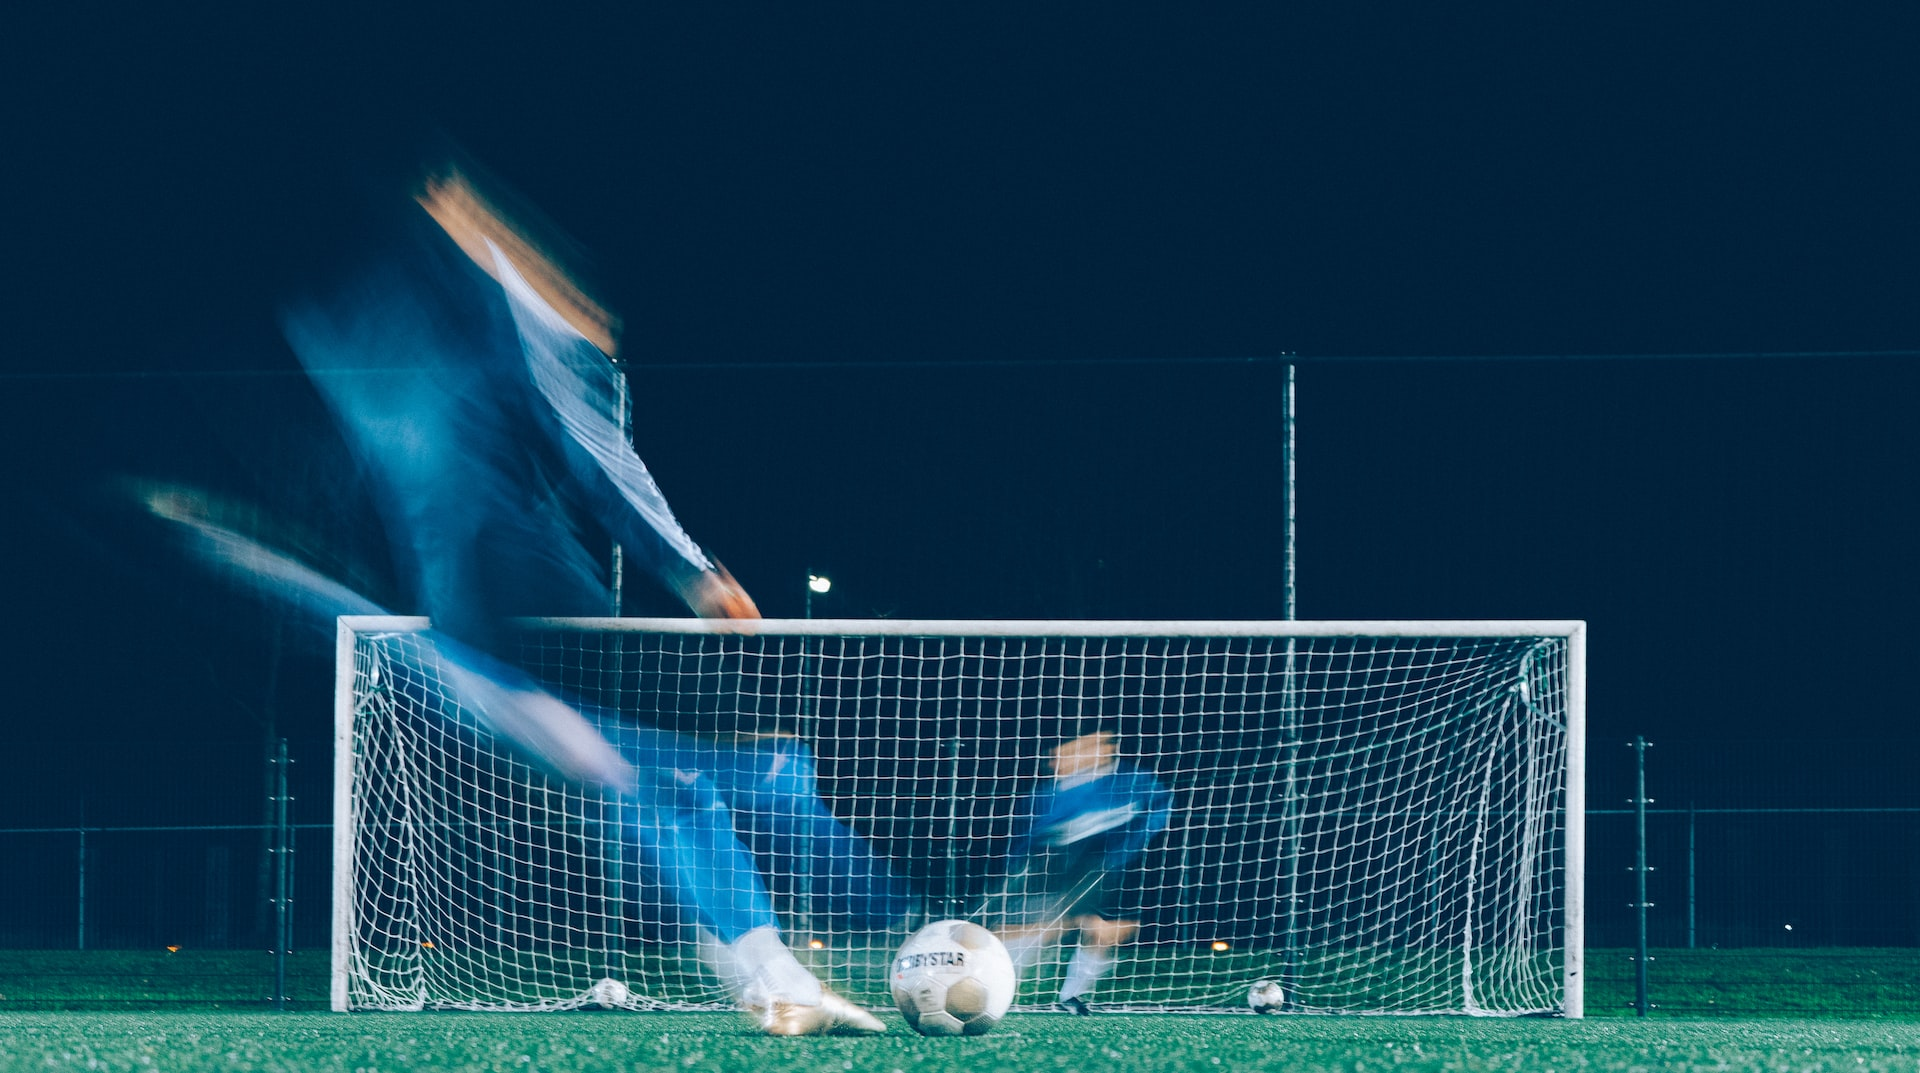
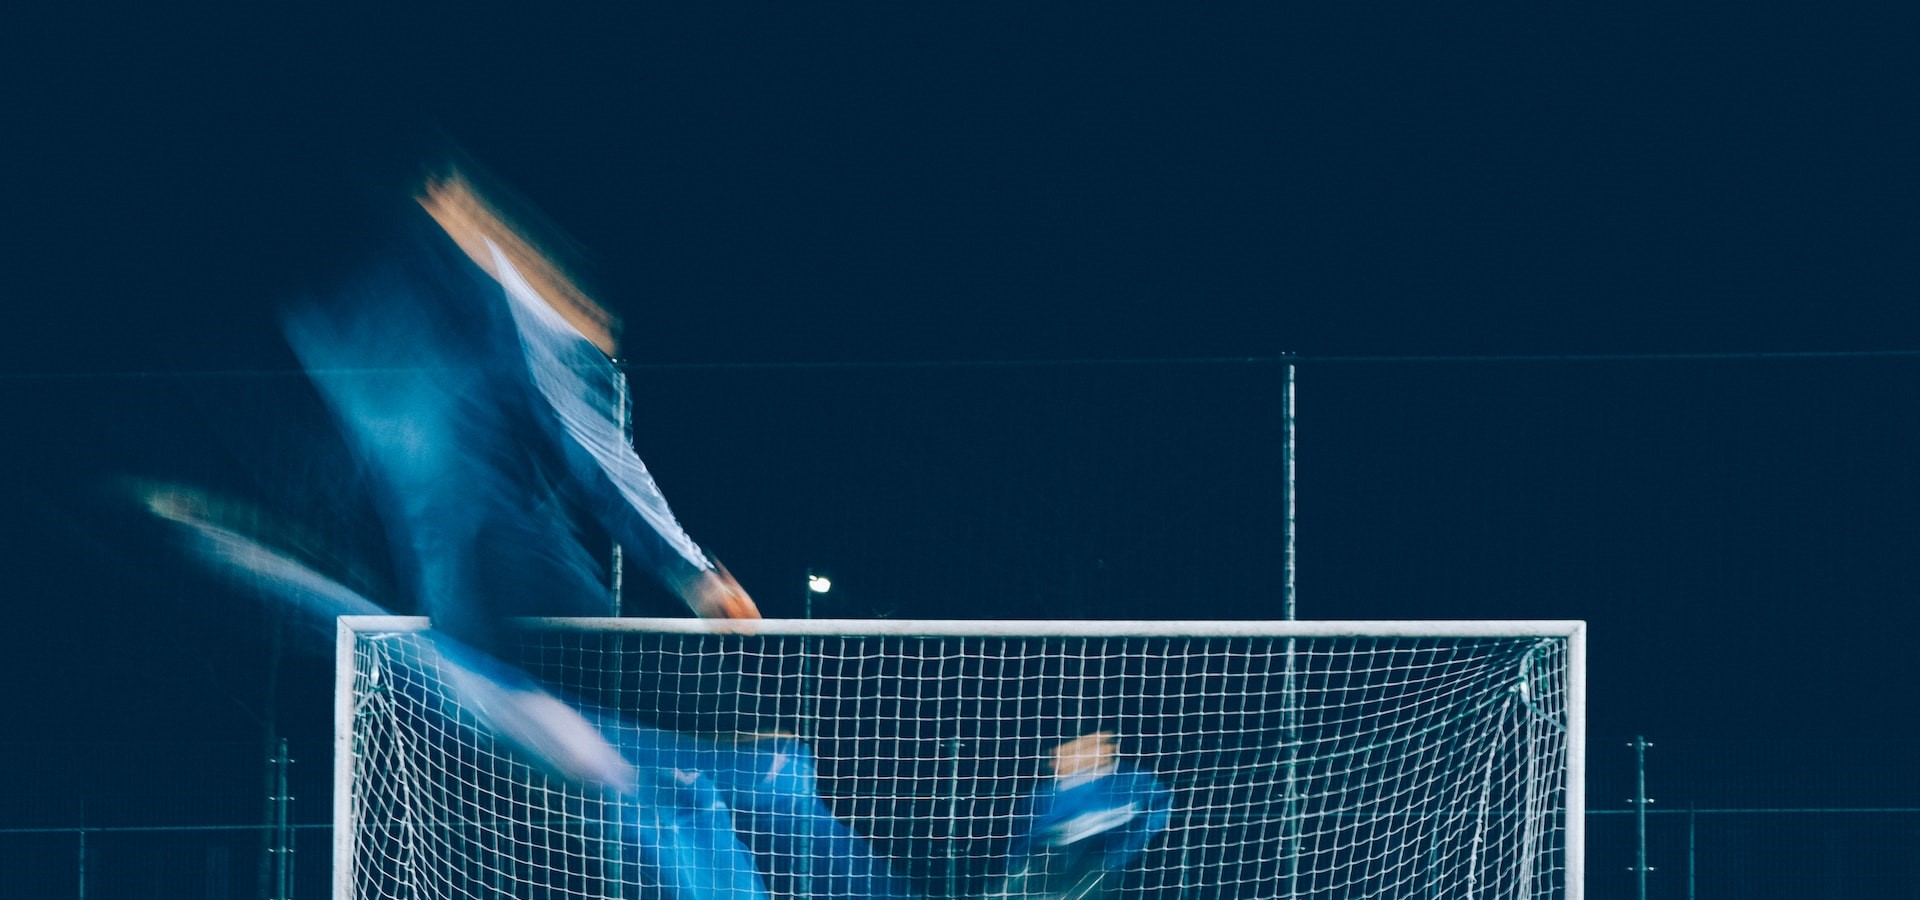
update

diff --git a/index.html b/index.html
@@ -4,7 +4,7 @@
     <meta charset="UTF-8">
     <meta http-equiv="X-UA-Compatible" content="IE=edge">
     <meta name="viewport" content="width=device-width, initial-scale=1.0">
-    <title>Jersy World BD</title>
+    <title>The Jersey World BD</title>
 
     <!-- Bootstrap CSS -->
     <link href="https://cdn.jsdelivr.net/npm/bootstrap@5.0.2/dist/css/bootstrap.min.css" rel="stylesheet" integrity="sha384-EVSTQN3/azprG1Anm3QDgpJLIm9Nao0Yz1ztcQTwFspd3yD65VohhpuuCOmLASjC" crossorigin="anonymous">
@@ -89,7 +89,7 @@
     <div class="product-container container">
 
       <div class="row g-4">
-        <div class="col">
+        <div class="col-lg-3">
           <div class="card">
             <img src="resources/photos/barca-home.jpg" class="card-img-top" alt="barca">
             <div class="card-body">
@@ -100,7 +100,7 @@
             </div>
           </div>
         </div>
-        <div class="col">
+        <div class="col-lg-3">
           <div class="card">
             <img src="resources/photos/argentina-home.png" class="card-img-top" alt="barca">
             <div class="card-body">
@@ -112,7 +112,7 @@
           </div>
         </div>
 
-        <div class="col">
+        <div class="col-lg-3">
           <div class="card">
             <img src="resources/photos/brazil-home.png" class="card-img-top" alt="barca">
             <div class="card-body">
@@ -124,7 +124,7 @@
           </div>
         </div>
 
-        <div class="col">
+        <div class="col-lg-3">
           <div class="card">
             <img src="resources/photos/real-home.jpeg" class="card-img-top" alt="barca">
             <div class="card-body">
@@ -140,7 +140,7 @@
       </div>
 
       <div class="row mt-4 g-4">
-        <div class="col">
+        <div class="col-lg-3">
           <div class="card">
             <img src="resources/photos/bayern-home.jpg" class="card-img-top" alt="barca">
             <div class="card-body">
@@ -151,7 +151,7 @@
             </div>
           </div>
         </div>
-        <div class="col">
+        <div class="col-lg-3">
           <div class="card">
             <img src="resources/photos/german-home.webp" class="card-img-top" alt="barca">
             <div class="card-body">
@@ -163,7 +163,7 @@
           </div>
         </div>
 
-        <div class="col">
+        <div class="col-lg-3">
           <div class="card">
             <img src="resources/photos/chelsea-home.jpg" class="card-img-top" alt="barca">
             <div class="card-body">
@@ -175,7 +175,7 @@
           </div>
         </div>
 
-        <div class="col">
+        <div class="col-lg-3">
           <div class="card">
             <img src="resources/photos/ajax-home.jpg" class="card-img-top" alt="ajax">
             <div class="card-body">
@@ -191,7 +191,7 @@
       </div>
 
       <div class="row mt-4 g-4">
-        <div class="col">
+        <div class="col-lg-3">
           <div class="card">
             <img src="resources/photos/brazil-away.jpg" class="card-img-top" alt="brazil-away">
             <div class="card-body">
@@ -202,7 +202,7 @@
             </div>
           </div>
         </div>
-        <div class="col">
+        <div class="col-lg-3">
           <div class="card">
             <img src="resources/photos/argentina-away.png" class="card-img-top" alt="argentina-away">
             <div class="card-body">
@@ -214,7 +214,7 @@
           </div>
         </div>
 
-        <div class="col">
+        <div class="col-lg-3">
           <div class="card">
             <img src="resources/photos/mancity-home.jpg" class="card-img-top" alt="mancity-home">
             <div class="card-body">
@@ -226,7 +226,7 @@
           </div>
         </div>
 
-        <div class="col">
+        <div class="col-lg-3">
           <div class="card">
             <img src="resources/photos/manu-home.jpg" class="card-img-top" alt="man u">
             <div class="card-body">

diff --git a/resources/css/style.css b/resources/css/style.css
@@ -1,6 +1,4 @@
-.carousel-item img{
-  height: 90vh;
-}
+
 .caption-class{
     background: rgba(0, 0, 0, 0.363);
 }
